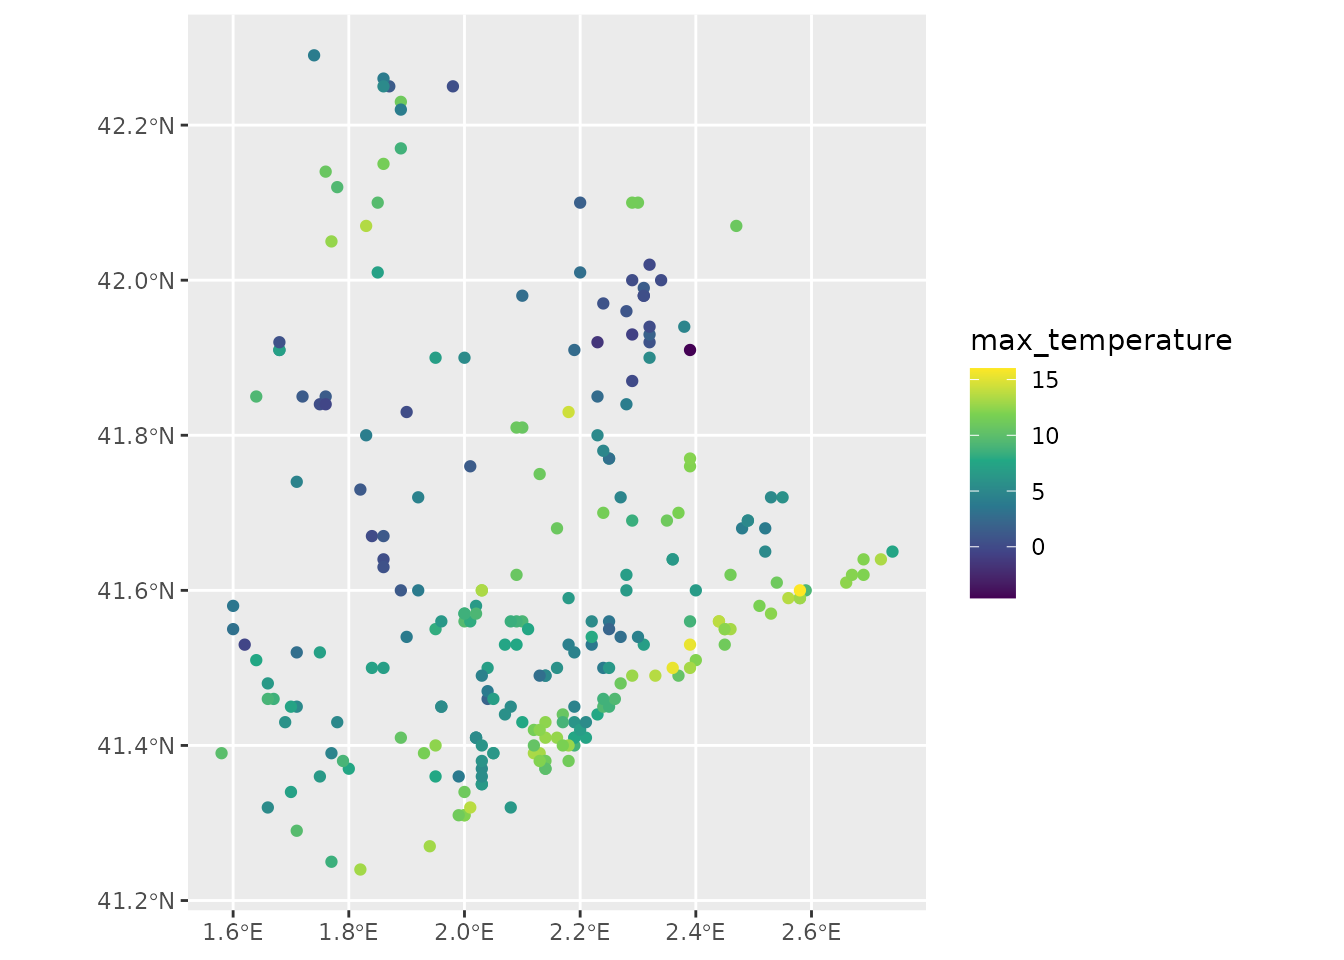
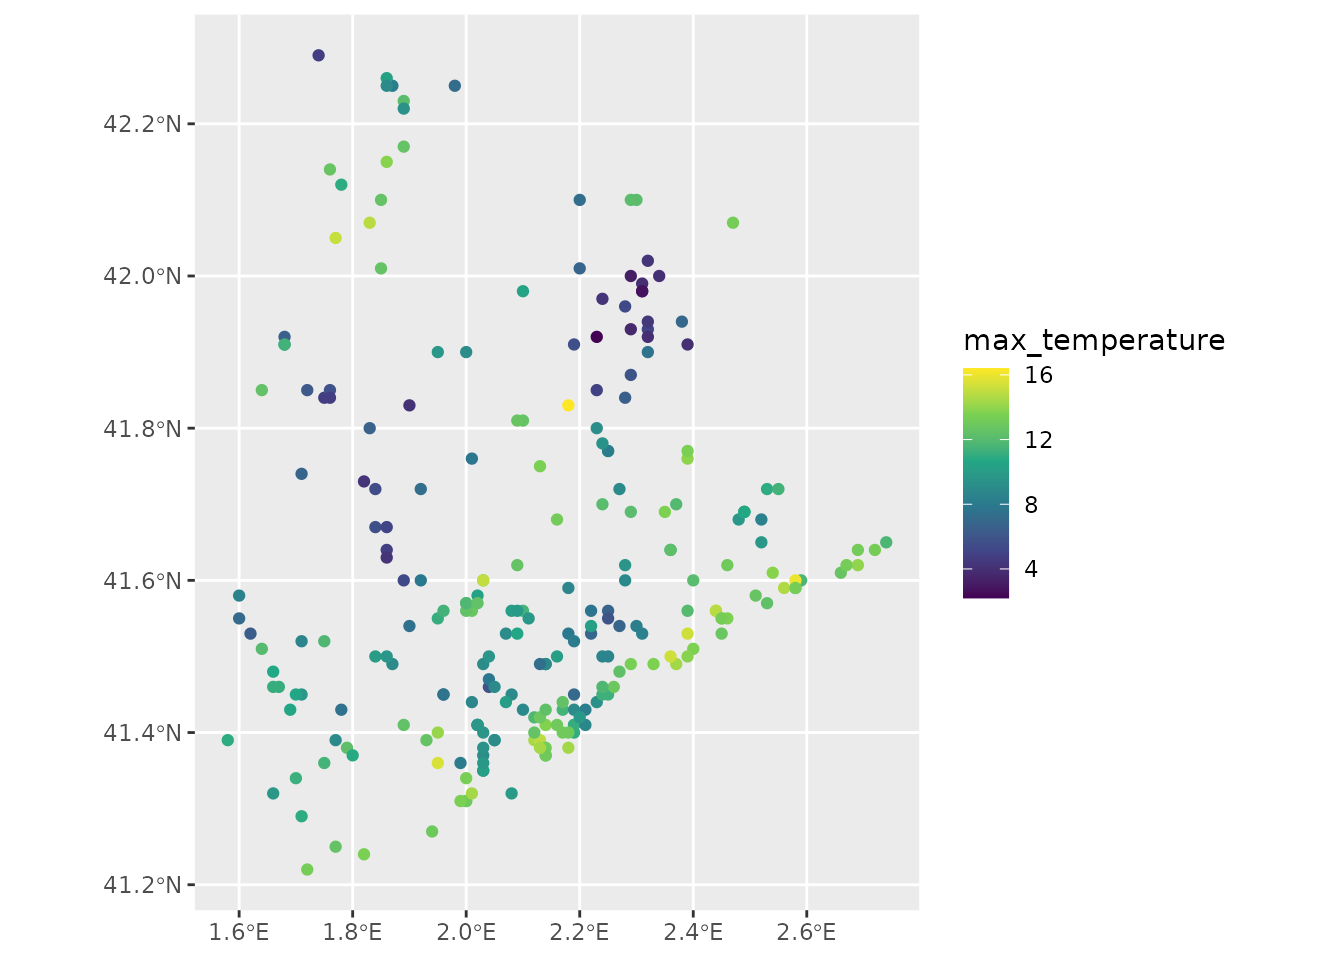
Deploying to gh-pages from @ emf-creaf/meteospain@81e244884505e3cb90e12c078804347b7a1c9756 🚀

diff --git a/articles/meteoclimatic.html b/articles/meteoclimatic.html
@@ -33,7 +33,7 @@
       </button>
       <span class="navbar-brand">
         <a class="navbar-link" href="../index.html">meteospain</a>
-        <span class="version label label-default" data-toggle="tooltip" data-placement="bottom" title="">0.1.4</span>
+        <span class="version label label-default" data-toggle="tooltip" data-placement="bottom" title="">0.1.3.9000</span>
       </span>
     </div>
 
@@ -166,12 +166,12 @@ one.</p>
 <p>Accessing station metadata for Meteoclimatic is simple:</p>
 <div class="sourceCode" id="cb3"><pre class="downlit sourceCode r">
 <code class="sourceCode R"><span><span class="fu"><a href="../reference/get_stations_info_from.html">get_stations_info_from</a></span><span class="op">(</span><span class="st">'meteoclimatic'</span>, options <span class="op">=</span> <span class="va">api_options</span><span class="op">)</span></span>
-<span><span class="co">#&gt; Simple feature collection with 244 features and 3 fields</span></span>
+<span><span class="co">#&gt; Simple feature collection with 249 features and 3 fields</span></span>
 <span><span class="co">#&gt; Geometry type: POINT</span></span>
 <span><span class="co">#&gt; Dimension:     XY</span></span>
-<span><span class="co">#&gt; Bounding box:  xmin: 1.58 ymin: 41.24 xmax: 2.74 ymax: 42.29</span></span>
+<span><span class="co">#&gt; Bounding box:  xmin: 1.58 ymin: 41.22 xmax: 2.74 ymax: 42.29</span></span>
 <span><span class="co">#&gt; Geodetic CRS:  WGS 84</span></span>
-<span><span class="co">#&gt; <span style="color: #949494;"># A tibble: 244 × 4</span></span></span>
+<span><span class="co">#&gt; <span style="color: #949494;"># A tibble: 249 × 4</span></span></span>
 <span><span class="co">#&gt;    service       station_id          station_name          geometry</span></span>
 <span><span class="co">#&gt;  <span style="color: #BCBCBC;">*</span> <span style="color: #949494; font-style: italic;">&lt;chr&gt;</span>         <span style="color: #949494; font-style: italic;">&lt;chr&gt;</span>               <span style="color: #949494; font-style: italic;">&lt;chr&gt;</span>              <span style="color: #949494; font-style: italic;">&lt;POINT [°]&gt;</span></span></span>
 <span><span class="co">#&gt; <span style="color: #BCBCBC;"> 1</span> meteoclimatic ESCAT0800000008591A Aiguafreda (Barc… (2.25 41.77)</span></span>
@@ -184,7 +184,7 @@ one.</p>
 <span><span class="co">#&gt; <span style="color: #BCBCBC;"> 8</span> meteoclimatic ESCAT0800000008915A Badalona - Bufal… (2.24 41.46)</span></span>
 <span><span class="co">#&gt; <span style="color: #BCBCBC;"> 9</span> meteoclimatic ESCAT0800000008912A Badalona - Centr… (2.25 41.45)</span></span>
 <span><span class="co">#&gt; <span style="color: #BCBCBC;">10</span> meteoclimatic ESCAT0800000008911C Badalona - Dalt … (2.26 41.46)</span></span>
-<span><span class="co">#&gt; <span style="color: #949494;"># ℹ 234 more rows</span></span></span></code></pre></div>
+<span><span class="co">#&gt; <span style="color: #949494;"># ℹ 239 more rows</span></span></span></code></pre></div>
 </div>
 <div class="section level3">
 <h3 id="meteoclimatic-data">Meteoclimatic data<a class="anchor" aria-label="anchor" href="#meteoclimatic-data"></a>
@@ -197,25 +197,25 @@ one.</p>
 <span><span class="co">#&gt; <span style="color: #BBBB00; font-weight: bold;">coordinates of stations can be present.</span></span></span>
 <span><span class="co">#&gt; <span style="color: #0000BB; text-decoration: underline;">https://www.meteoclimatic.net/index</span></span></span>
 <span><span class="va">current_day_barcelona</span></span>
-<span><span class="co">#&gt; Simple feature collection with 244 features and 9 fields</span></span>
+<span><span class="co">#&gt; Simple feature collection with 249 features and 9 fields</span></span>
 <span><span class="co">#&gt; Geometry type: POINT</span></span>
 <span><span class="co">#&gt; Dimension:     XY</span></span>
-<span><span class="co">#&gt; Bounding box:  xmin: 1.58 ymin: 41.24 xmax: 2.74 ymax: 42.29</span></span>
+<span><span class="co">#&gt; Bounding box:  xmin: 1.58 ymin: 41.22 xmax: 2.74 ymax: 42.29</span></span>
 <span><span class="co">#&gt; Geodetic CRS:  WGS 84</span></span>
-<span><span class="co">#&gt; <span style="color: #949494;"># A tibble: 244 × 10</span></span></span>
+<span><span class="co">#&gt; <span style="color: #949494;"># A tibble: 249 × 10</span></span></span>
 <span><span class="co">#&gt;    timestamp           service       station_id     station_name min_temperature</span></span>
 <span><span class="co">#&gt;  <span style="color: #BCBCBC;">*</span> <span style="color: #949494; font-style: italic;">&lt;dttm&gt;</span>              <span style="color: #949494; font-style: italic;">&lt;chr&gt;</span>         <span style="color: #949494; font-style: italic;">&lt;chr&gt;</span>          <span style="color: #949494; font-style: italic;">&lt;chr&gt;</span>                   <span style="color: #949494;">[°C]</span></span></span>
-<span><span class="co">#&gt; <span style="color: #BCBCBC;"> 1</span> 2023-12-18 <span style="color: #949494;">09:10:00</span> meteoclimatic ESCAT08000000… Granollers …             2.1</span></span>
-<span><span class="co">#&gt; <span style="color: #BCBCBC;"> 2</span> 2023-12-18 <span style="color: #949494;">09:15:00</span> meteoclimatic ESCAT08000000… Vacarisses …            -<span style="color: #BB0000;">4.4</span></span></span>
-<span><span class="co">#&gt; <span style="color: #BCBCBC;"> 3</span> 2023-12-18 <span style="color: #949494;">09:15:00</span> meteoclimatic ESCAT08000000… Dosrius Can…             4.8</span></span>
-<span><span class="co">#&gt; <span style="color: #BCBCBC;"> 4</span> 2023-12-18 <span style="color: #949494;">09:15:00</span> meteoclimatic ESCAT08000000… La Pobla de…            -<span style="color: #BB0000;">2.5</span></span></span>
-<span><span class="co">#&gt; <span style="color: #BCBCBC;"> 5</span> 2023-12-18 <span style="color: #949494;">09:16:00</span> meteoclimatic ESCAT08000000… Montmeló-T.…            -<span style="color: #BB0000;">0.4</span></span></span>
-<span><span class="co">#&gt; <span style="color: #BCBCBC;"> 6</span> 2023-12-18 <span style="color: #949494;">09:19:00</span> meteoclimatic ESCAT08000000… Taradell (D…            -<span style="color: #BB0000;">3.3</span></span></span>
-<span><span class="co">#&gt; <span style="color: #BCBCBC;"> 7</span> 2023-12-18 <span style="color: #949494;">09:22:00</span> meteoclimatic ESCAT08000000… Vallromanes…             1.2</span></span>
-<span><span class="co">#&gt; <span style="color: #BCBCBC;"> 8</span> 2023-12-18 <span style="color: #949494;">09:24:00</span> meteoclimatic ESCAT08000000… Montseny - …             3.6</span></span>
-<span><span class="co">#&gt; <span style="color: #BCBCBC;"> 9</span> 2023-12-18 <span style="color: #949494;">09:24:00</span> meteoclimatic ESCAT08000000… Aiguafreda …            -<span style="color: #BB0000;">2.5</span></span></span>
-<span><span class="co">#&gt; <span style="color: #BCBCBC;">10</span> 2023-12-18 <span style="color: #949494;">09:25:00</span> meteoclimatic ESCAT08000000… Barcelona -…             5.1</span></span>
-<span><span class="co">#&gt; <span style="color: #949494;"># ℹ 234 more rows</span></span></span>
+<span><span class="co">#&gt; <span style="color: #BCBCBC;"> 1</span> 2023-12-18 <span style="color: #949494;">10:25:00</span> meteoclimatic ESCAT08000000… Granollers …             2.1</span></span>
+<span><span class="co">#&gt; <span style="color: #BCBCBC;"> 2</span> 2023-12-18 <span style="color: #949494;">10:30:00</span> meteoclimatic ESCAT08000000… La Pobla de…            -<span style="color: #BB0000;">2.5</span></span></span>
+<span><span class="co">#&gt; <span style="color: #BCBCBC;"> 3</span> 2023-12-18 <span style="color: #949494;">10:31:00</span> meteoclimatic ESCAT08000000… Montmeló-T.…            -<span style="color: #BB0000;">0.4</span></span></span>
+<span><span class="co">#&gt; <span style="color: #BCBCBC;"> 4</span> 2023-12-18 <span style="color: #949494;">10:32:00</span> meteoclimatic ESCAT08000000… Castellar d…             5.9</span></span>
+<span><span class="co">#&gt; <span style="color: #BCBCBC;"> 5</span> 2023-12-18 <span style="color: #949494;">10:34:00</span> meteoclimatic ESCAT08000000… Aiguafreda …            -<span style="color: #BB0000;">2.5</span></span></span>
+<span><span class="co">#&gt; <span style="color: #BCBCBC;"> 6</span> 2023-12-18 <span style="color: #949494;">10:35:00</span> meteoclimatic ESCAT08000000… Figaró Mont…             0  </span></span>
+<span><span class="co">#&gt; <span style="color: #BCBCBC;"> 7</span> 2023-12-18 <span style="color: #949494;">10:37:00</span> meteoclimatic ESCAT08000000… Vallromanes…             1.2</span></span>
+<span><span class="co">#&gt; <span style="color: #BCBCBC;"> 8</span> 2023-12-18 <span style="color: #949494;">10:38:00</span> meteoclimatic ESCAT08000000… Cussons - S…            -<span style="color: #BB0000;">3.6</span></span></span>
+<span><span class="co">#&gt; <span style="color: #BCBCBC;"> 9</span> 2023-12-18 <span style="color: #949494;">10:38:04</span> meteoclimatic ESCAT08000000… Collsuspina…             2  </span></span>
+<span><span class="co">#&gt; <span style="color: #BCBCBC;">10</span> 2023-12-18 <span style="color: #949494;">10:39:00</span> meteoclimatic ESCAT08000000… Mataró -Nor…             6.1</span></span>
+<span><span class="co">#&gt; <span style="color: #949494;"># ℹ 239 more rows</span></span></span>
 <span><span class="co">#&gt; <span style="color: #949494;"># ℹ 5 more variables: max_temperature [°C], min_relative_humidity [%],</span></span></span>
 <span><span class="co">#&gt; <span style="color: #949494;">#   max_relative_humidity [%], precipitation [L/m^2], geometry &lt;POINT [°]&gt;</span></span></span></code></pre></div>
 <p>Visually:</p>

diff --git a/reference/get_quota_from.html b/reference/get_quota_from.html
@@ -17,7 +17,7 @@
       </button>
       <span class="navbar-brand">
         <a class="navbar-link" href="../index.html">meteospain</a>
-        <span class="version label label-default" data-toggle="tooltip" data-placement="bottom" title="">0.1.4</span>
+        <span class="version label label-default" data-toggle="tooltip" data-placement="bottom" title="">0.1.3.9000</span>
       </span>
     </div>
 
@@ -129,8 +129,8 @@ quota numbers in the services that allow for this, <strong>(currently only Meteo
 <span class="r-out co"><span class="r-pr">#&gt;</span> <span style="color: #BCBCBC;">1</span> Prediccio_8000   Mensual         <span style="text-decoration: underline;">8</span>000              <span style="text-decoration: underline;">8</span>000                    0</span>
 <span class="r-out co"><span class="r-pr">#&gt;</span> <span style="color: #BCBCBC;">2</span> Referència Bàsic Mensual         <span style="text-decoration: underline;">2</span>000              <span style="text-decoration: underline;">2</span>000                    0</span>
 <span class="r-out co"><span class="r-pr">#&gt;</span> <span style="color: #BCBCBC;">3</span> XDDE_1500        Mensual         <span style="text-decoration: underline;">1</span>500              <span style="text-decoration: underline;">1</span>500                    0</span>
-<span class="r-out co"><span class="r-pr">#&gt;</span> <span style="color: #BCBCBC;">4</span> XEMA_20000       Mensual        <span style="text-decoration: underline;">20</span>000             <span style="text-decoration: underline;">19</span>874                  126</span>
-<span class="r-out co"><span class="r-pr">#&gt;</span> <span style="color: #BCBCBC;">5</span> Quota            Mensual          300               300                    0</span>
+<span class="r-out co"><span class="r-pr">#&gt;</span> <span style="color: #BCBCBC;">4</span> XEMA_20000       Mensual        <span style="text-decoration: underline;">20</span>000             <span style="text-decoration: underline;">19</span>574                  426</span>
+<span class="r-out co"><span class="r-pr">#&gt;</span> <span style="color: #BCBCBC;">5</span> Quota            Mensual          300               297                    3</span>
 <span class="r-in"><span><span class="co"># }</span></span></span>
 <span class="r-in"><span></span></span>
 </code></pre></div>

diff --git a/authors.html b/authors.html
@@ -17,7 +17,7 @@
       </button>
       <span class="navbar-brand">
         <a class="navbar-link" href="index.html">meteospain</a>
-        <span class="version label label-default" data-toggle="tooltip" data-placement="bottom" title="">0.1.4</span>
+        <span class="version label label-default" data-toggle="tooltip" data-placement="bottom" title="">0.1.3.9000</span>
       </span>
     </div>
 
@@ -96,6 +96,10 @@
           <p><strong>Luis Franco</strong>. Contributor. 
           </p>
         </li>
+        <li>
+          <p><strong>Rubén Fernández-Casal</strong>. Contributor. 
+          </p>
+        </li>
       </ul></div>
     <div class="section level2 citation-section">
     <div>
@@ -107,13 +111,13 @@
 
     <p>Granda V (2023).
 <em>meteospain: Access to Spanish Meteorological Stations Services</em>.
-R package version 0.1.4, https://github.com/emf-creaf/meteospain, <a href="https://emf-creaf.github.io/meteospain/">https://emf-creaf.github.io/meteospain/</a>. 
+R package version 0.1.3.9000, https://github.com/emf-creaf/meteospain, <a href="https://emf-creaf.github.io/meteospain/">https://emf-creaf.github.io/meteospain/</a>. 
 </p>
     <pre>@Manual{,
   title = {meteospain: Access to Spanish Meteorological Stations Services},
   author = {Victor Granda},
   year = {2023},
-  note = {R package version 0.1.4, https://github.com/emf-creaf/meteospain},
+  note = {R package version 0.1.3.9000, https://github.com/emf-creaf/meteospain},
   url = {https://emf-creaf.github.io/meteospain/},
 }</pre>
 

diff --git a/news/index.html b/news/index.html
@@ -17,7 +17,7 @@
       </button>
       <span class="navbar-brand">
         <a class="navbar-link" href="../index.html">meteospain</a>
-        <span class="version label label-default" data-toggle="tooltip" data-placement="bottom" title="">0.1.4</span>
+        <span class="version label label-default" data-toggle="tooltip" data-placement="bottom" title="">0.1.3.9000</span>
       </span>
     </div>
 
@@ -80,8 +80,8 @@
     </div>
 
     <div class="section level2">
-<h2 class="page-header" data-toc-text="0.1.4" id="meteospain-014">meteospain 0.1.4<a class="anchor" aria-label="anchor" href="#meteospain-014"></a></h2>
-<ul><li>Fixed bug in RIA coordinates (<a href="https://github.com/emf-creaf/meteospain/issues/20" class="external-link">#20</a>)</li>
+<h2 class="page-header" data-toc-text="0.1.3.9000" id="meteospain-0139000">meteospain 0.1.3.9000<a class="anchor" aria-label="anchor" href="#meteospain-0139000"></a></h2>
+<ul><li>RIA API: Fixed bug in coordinates processing (they are not decimal) (<a href="https://github.com/emf-creaf/meteospain/issues/20" class="external-link">#20</a>)</li>
 </ul></div>
     <div class="section level2">
 <h2 class="page-header" data-toc-text="0.1.3" id="meteospain-013">meteospain 0.1.3<small>2023-10-18</small><a class="anchor" aria-label="anchor" href="#meteospain-013"></a></h2>

diff --git a/articles/ria.html b/articles/ria.html
@@ -33,7 +33,7 @@
       </button>
       <span class="navbar-brand">
         <a class="navbar-link" href="../index.html">meteospain</a>
-        <span class="version label label-default" data-toggle="tooltip" data-placement="bottom" title="">0.1.4</span>
+        <span class="version label label-default" data-toggle="tooltip" data-placement="bottom" title="">0.1.3.9000</span>
       </span>
     </div>
 
@@ -228,7 +228,7 @@ reference.</p>
 </h3>
 <p>Accessing station metadata for RIA is simple:</p>
 <div class="sourceCode" id="cb3"><pre class="downlit sourceCode r">
-<code class="sourceCode R"><span><span class="fu"><a href="../reference/get_stations_info_from.html">get_stations_info_from</a></span><span class="op">(</span><span class="st">'ria'</span>, <span class="va">ria_options</span><span class="op">)</span></span>
+<code class="sourceCode R"><span><span class="fu"><a href="../reference/get_stations_info_from.html">get_stations_info_from</a></span><span class="op">(</span><span class="st">'ria'</span>, <span class="va">api_options</span><span class="op">)</span></span>
 <span><span class="co">#&gt; Simple feature collection with 122 features and 7 fields</span></span>
 <span><span class="co">#&gt; Geometry type: POINT</span></span>
 <span><span class="co">#&gt; Dimension:     XY</span></span>

diff --git a/404.html b/404.html
@@ -32,7 +32,7 @@
       </button>
       <span class="navbar-brand">
         <a class="navbar-link" href="https://emf-creaf.github.io/meteospain/index.html">meteospain</a>
-        <span class="version label label-default" data-toggle="tooltip" data-placement="bottom" title="">0.1.4</span>
+        <span class="version label label-default" data-toggle="tooltip" data-placement="bottom" title="">0.1.3.9000</span>
       </span>
     </div>
 

diff --git a/articles/aemet.html b/articles/aemet.html
@@ -33,7 +33,7 @@
       </button>
       <span class="navbar-brand">
         <a class="navbar-link" href="../index.html">meteospain</a>
-        <span class="version label label-default" data-toggle="tooltip" data-placement="bottom" title="">0.1.4</span>
+        <span class="version label label-default" data-toggle="tooltip" data-placement="bottom" title="">0.1.3.9000</span>
       </span>
     </div>
 

diff --git a/articles/api_limits.html b/articles/api_limits.html
@@ -33,7 +33,7 @@
       </button>
       <span class="navbar-brand">
         <a class="navbar-link" href="../index.html">meteospain</a>
-        <span class="version label label-default" data-toggle="tooltip" data-placement="bottom" title="">0.1.4</span>
+        <span class="version label label-default" data-toggle="tooltip" data-placement="bottom" title="">0.1.3.9000</span>
       </span>
     </div>
 

diff --git a/articles/compatibility.html b/articles/compatibility.html
@@ -33,7 +33,7 @@
       </button>
       <span class="navbar-brand">
         <a class="navbar-link" href="../index.html">meteospain</a>
-        <span class="version label label-default" data-toggle="tooltip" data-placement="bottom" title="">0.1.4</span>
+        <span class="version label label-default" data-toggle="tooltip" data-placement="bottom" title="">0.1.3.9000</span>
       </span>
     </div>
 

diff --git a/articles/index.html b/articles/index.html
@@ -17,7 +17,7 @@
       </button>
       <span class="navbar-brand">
         <a class="navbar-link" href="../index.html">meteospain</a>
-        <span class="version label label-default" data-toggle="tooltip" data-placement="bottom" title="">0.1.4</span>
+        <span class="version label label-default" data-toggle="tooltip" data-placement="bottom" title="">0.1.3.9000</span>
       </span>
     </div>
 

diff --git a/articles/meteocat.html b/articles/meteocat.html
@@ -33,7 +33,7 @@
       </button>
       <span class="navbar-brand">
         <a class="navbar-link" href="../index.html">meteospain</a>
-        <span class="version label label-default" data-toggle="tooltip" data-placement="bottom" title="">0.1.4</span>
+        <span class="version label label-default" data-toggle="tooltip" data-placement="bottom" title="">0.1.3.9000</span>
       </span>
     </div>
 

diff --git a/articles/meteogalicia.html b/articles/meteogalicia.html
@@ -33,7 +33,7 @@
       </button>
       <span class="navbar-brand">
         <a class="navbar-link" href="../index.html">meteospain</a>
-        <span class="version label label-default" data-toggle="tooltip" data-placement="bottom" title="">0.1.4</span>
+        <span class="version label label-default" data-toggle="tooltip" data-placement="bottom" title="">0.1.3.9000</span>
       </span>
     </div>
 
